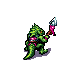
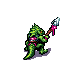
(#6) Spearwoman weapon fix in bop animations.

Changed region(s): [[0.6111, 0.2222, 0.8333, 0.5]]

diff --git a/_changelog.md b/_changelog.md
@@ -12,7 +12,7 @@ or stat adjustments. Releases with the same MAJOR version are always compatible.
 
 ## 2.0.0
 
-* Saurian Spearwoman SE bop animation fix.
+* Saurian Spearwoman bop animations fix.
 * Saurian Spearwoman stat changes.
   * HP increased to 44.
   * Melee damage increased to 10-2.
